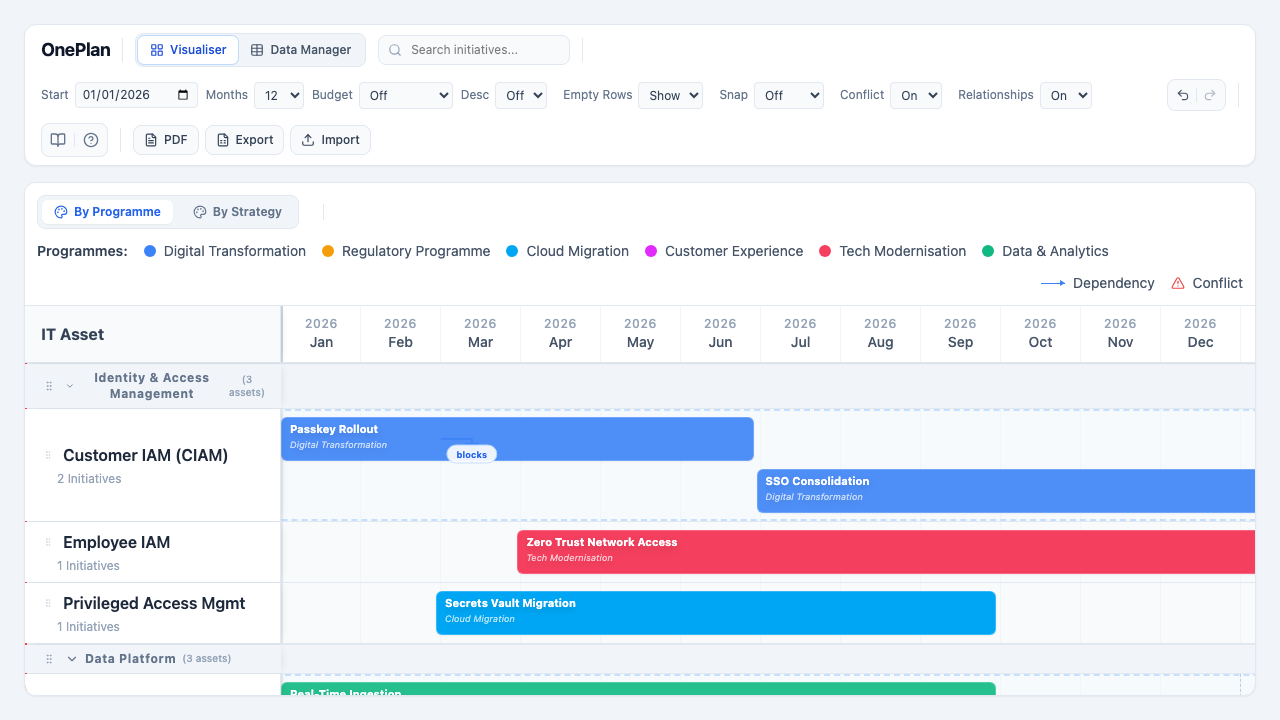
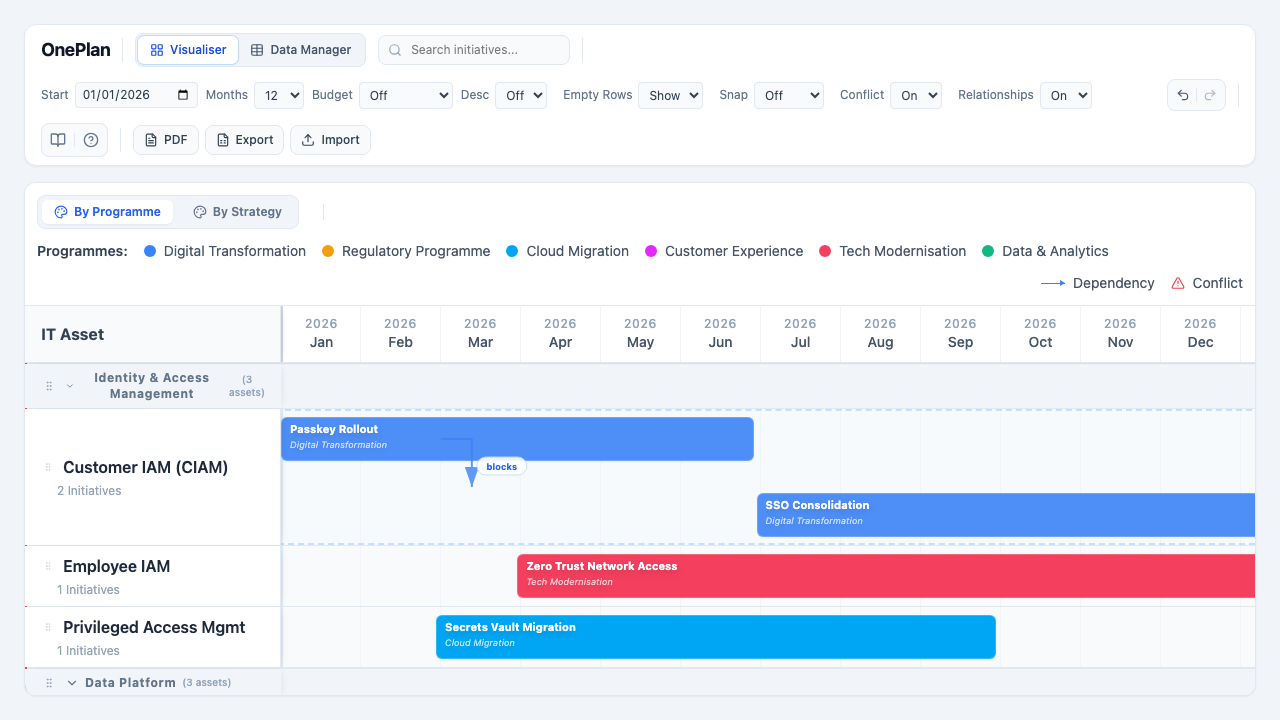
feat: enhance relationship visibility with increased padding and offset labels

diff --git a/src/components/Timeline.tsx b/src/components/Timeline.tsx
@@ -588,7 +588,7 @@ export function Timeline({ assets, initiatives, milestones, programmes, strategi
       assetInitiatives.some(i => i.id === dep.sourceId) &&
       assetInitiatives.some(i => i.id === dep.targetId)
     );
-    const dynamicGap = hasIntraAssetDependencies ? 8 : BAR_GAP;
+    const dynamicGap = hasIntraAssetDependencies ? 32 : BAR_GAP;
 
     sorted.forEach(entity => {
       const { init, isGroup, groupIds, groupProgrammeNames, groupStrategyNames } = entity;
@@ -959,24 +959,24 @@ export function Timeline({ assets, initiatives, milestones, programmes, strategi
                   // State 1: Clear Horizontal Flow (exits right, enters left)
                   const midX = sEndX + gap / 2;
                   path = `M ${sEndX} ${sMidY} L ${midX} ${sMidY} L ${midX} ${tMidY} L ${tStartX - 6} ${tMidY}`;
-                  labelX = midX;
+                  labelX = midX + 30; // Offset to the right of the vertical segment
                   labelY = (sMidY + tMidY) / 2;
                 } else if (tEndX <= sStartX + 20) {
                   // State 2: Backwards Flow (exits left, enters right)
                   const midX = tEndX + (sStartX - tEndX) / 2;
                   path = `M ${sStartX} ${sMidY} L ${midX} ${sMidY} L ${midX} ${tMidY} L ${tEndX + 6} ${tMidY}`;
-                  labelX = midX;
+                  labelX = midX - 30; // Offset to the left of the vertical segment
                   labelY = (sMidY + tMidY) / 2;
                 } else if (overlapWidth > 40) {
                   // State 3: Significant Overlap (exits bottom/top, enters top/bottom)
                   const midX = overlapLeft + overlapWidth / 2;
                   if (sMidY < tMidY) {
                     path = `M ${midX} ${sBottom} L ${midX} ${target.y - 6}`;
-                    labelX = midX;
+                    labelX = midX + 30; // Offset to the right
                     labelY = (sBottom + target.y) / 2;
                   } else {
                     path = `M ${midX} ${source.y} L ${midX} ${tBottom + 6}`;
-                    labelX = midX;
+                    labelX = midX + 30; // Offset to the right
                     labelY = (source.y + tBottom) / 2;
                   }
                 } else {
@@ -987,11 +987,11 @@ export function Timeline({ assets, initiatives, milestones, programmes, strategi
 
                   if (sMidY < tMidY) {
                     path = `M ${sEndX} ${sMidY} L ${dropX} ${sMidY} L ${dropX} ${target.y - 6}`;
-                    labelX = dropX;
+                    labelX = dropX + 30; // Offset to the right
                     labelY = (sMidY + target.y) / 2;
                   } else {
                     path = `M ${sEndX} ${sMidY} L ${dropX} ${sMidY} L ${dropX} ${tBottom + 6}`;
-                    labelX = dropX;
+                    labelX = dropX + 30; // Offset to the right
                     labelY = (sMidY + tBottom) / 2;
                   }
                 }

diff --git a/e2e/dependency-visuals.spec.ts b/e2e/dependency-visuals.spec.ts
@@ -1,0 +1,54 @@
+import { test, expect } from '@playwright/test';
+
+test.describe('Dependency Visual Enhancements', () => {
+    test.beforeEach(async ({ page }) => {
+        await page.goto('/');
+        await page.waitForSelector('#timeline-visualiser');
+    });
+
+    test('increased vertical gap for intra-asset dependencies', async ({ page }) => {
+        const c1 = page.getByText('Passkey Rollout').first();
+        const c2 = page.getByText('SSO Consolidation').first();
+
+        await expect(c1).toBeVisible();
+        await expect(c2).toBeVisible();
+
+        const box1 = await c1.boundingBox();
+        const box2 = await c2.boundingBox();
+
+        const topBar = box1!.y < box2!.y ? box1! : box2!;
+        const bottomBar = box1!.y > box2!.y ? box1! : box2!;
+
+        const gap = bottomBar.y - (topBar.y + topBar.height);
+        // New standard gap for intra-asset dependencies is 32px
+        expect(gap).toBeGreaterThan(30);
+    });
+
+    test('dependency labels are offset and not covering the arrow segment', async ({ page }) => {
+        // "Passkey Rollout" and "SSO Consolidation" have a dependency
+        const dependencyLabel = page.locator('text=blocks').first();
+        await expect(dependencyLabel).toBeVisible();
+
+        const labelBox = await dependencyLabel.boundingBox();
+        expect(labelBox).not.toBeNull();
+
+        // Get the source and target to estimate the "midpoint" where the arrow would be
+        const c1 = page.getByText('Passkey Rollout').first();
+        const c2 = page.getByText('SSO Consolidation').first();
+        const box1 = await c1.boundingBox();
+        const box2 = await c2.boundingBox();
+
+        // One ends, other starts or they overlap. 
+        // In this case (Passkey -> SSO), Passkey ends before SSO starts or they overlap.
+        // The midpoint segment X would be between them.
+        const midX = (box1!.x + box1!.width + box2!.x) / 2;
+        
+        // Label should be offset from the midpoint (which is where the vertical segment is)
+        // We offset by 30px in the code.
+        const labelMidX = labelBox!.x + labelBox!.width / 2;
+        const distance = Math.abs(labelMidX - midX);
+        
+        console.log(`Label MidX: ${labelMidX}, Estimated Path MidX: ${midX}, Distance: ${distance}`);
+        expect(distance).toBeGreaterThan(15);
+    });
+});

diff --git a/e2e/swimlane-padding.spec.ts b/e2e/swimlane-padding.spec.ts
@@ -33,8 +33,9 @@ test.describe('Swimlane Padding', () => {
         console.log(`Row height for ${targetAssetId}: ${rowHeight}`);
 
         // Old calculation: ~168px
-        // New calculation: 8 + 44 + 4 + 44 + 8 = 108.
-        expect(rowHeight).toBeLessThanOrEqual(115);
+        // Compact calculation: 8 + 44 + 4 + 44 + 8 = 108.
+        // With intra-asset dependency gap (32px): 8 + 44 + 32 + 44 + 8 = 136.
+        expect(rowHeight).toBeLessThanOrEqual(140);
     });
 
     test('should have consistent height when a group is collapsed', async ({ page }) => {

diff --git a/PLAYWRIGHT_TODO.md b/PLAYWRIGHT_TODO.md
@@ -61,6 +61,9 @@ This document outlines the critical functionality of **OnePlan** that should be 
         - [x] Verify that clicking a dependency arrow opens the edit modal.
         - [x] Verify that dependencies can be deleted from the modal.
         - [x] Verify that dependency direction can be reversed in the modal.
+    - [x] **Dependency Visual Enhancements:**
+        - [x] Verify increased vertical gap (32px) for intra-asset dependencies.
+        - [x] Verify that dependency labels are offset to not cover the arrow.
 - [x] **Milestone Interaction:**
     - [x] **Horizontal Move:** Drag a milestone left or right to change its date.
 - [x] **Visualization Labels:**
